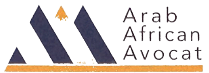
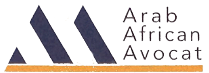
fix the footer

Changed region(s): [[0.2584, 0.0822, 0.3445, 0.3014], [0.4306, 0.6849, 0.4593, 0.7671], [0.3732, 0.8493, 0.4306, 0.8767]]

diff --git a/index.html b/index.html
@@ -20,7 +20,7 @@
     <nav class="navbar navbar-expand-lg sticky-top bg-white" id="mynav">
       <div class="container">
         <a class="navbar-brand" href="#home">
-          <img class="logo" src="./img/lgonobg.png" alt="" />
+          <img class="logo" src="./img/lgonobgsvg.svg" alt="" />
         </a>
         <button
           id="navbar-toggler"
@@ -100,7 +100,7 @@
               <div class="row">
                 <div class="col-md-10 offset-md-1">
               
-                  <h1 class="text-center" >La Société Arabe Africaine d’Avocats </h1>
+                  <h1 style="margin-bottom : 15px" class="text-center" >La Société Arabe Africaine d’Avocats </h1>
                   <p>
                     La société Arabe Africaine d’avocats a acquis dans ses domaines de compétence une expérience avérée complétée par une notoriété reconnue dans plusieurs secteurs économiques.	
                   </p>
@@ -485,11 +485,9 @@
               </div> 
             </div>
           </div>
-          <div class="footer-bottom py-3">
+          <div class="footer-bottom py-3 ">
             <div class="container">
-              <div class="row">
-                <div class="col-md-10">
-                  <p class="mb-0">
+                  <p class="mb-0" style="text-align : center" >
                     © 2022 copyright all right reserved | Designed with
                     <i class="fa fa-heart" style='color : red ; display: inline' aria-hidden="true"></i> &nbsp; by <a 
                       href="https://www.linkedin.com/in/karim-souari/"
@@ -498,9 +496,6 @@
                     >
                   </p>
                 </div>
-
-              </div>
-            </div>
           </div>
         </footer>
             <!-- FOOTER -->
